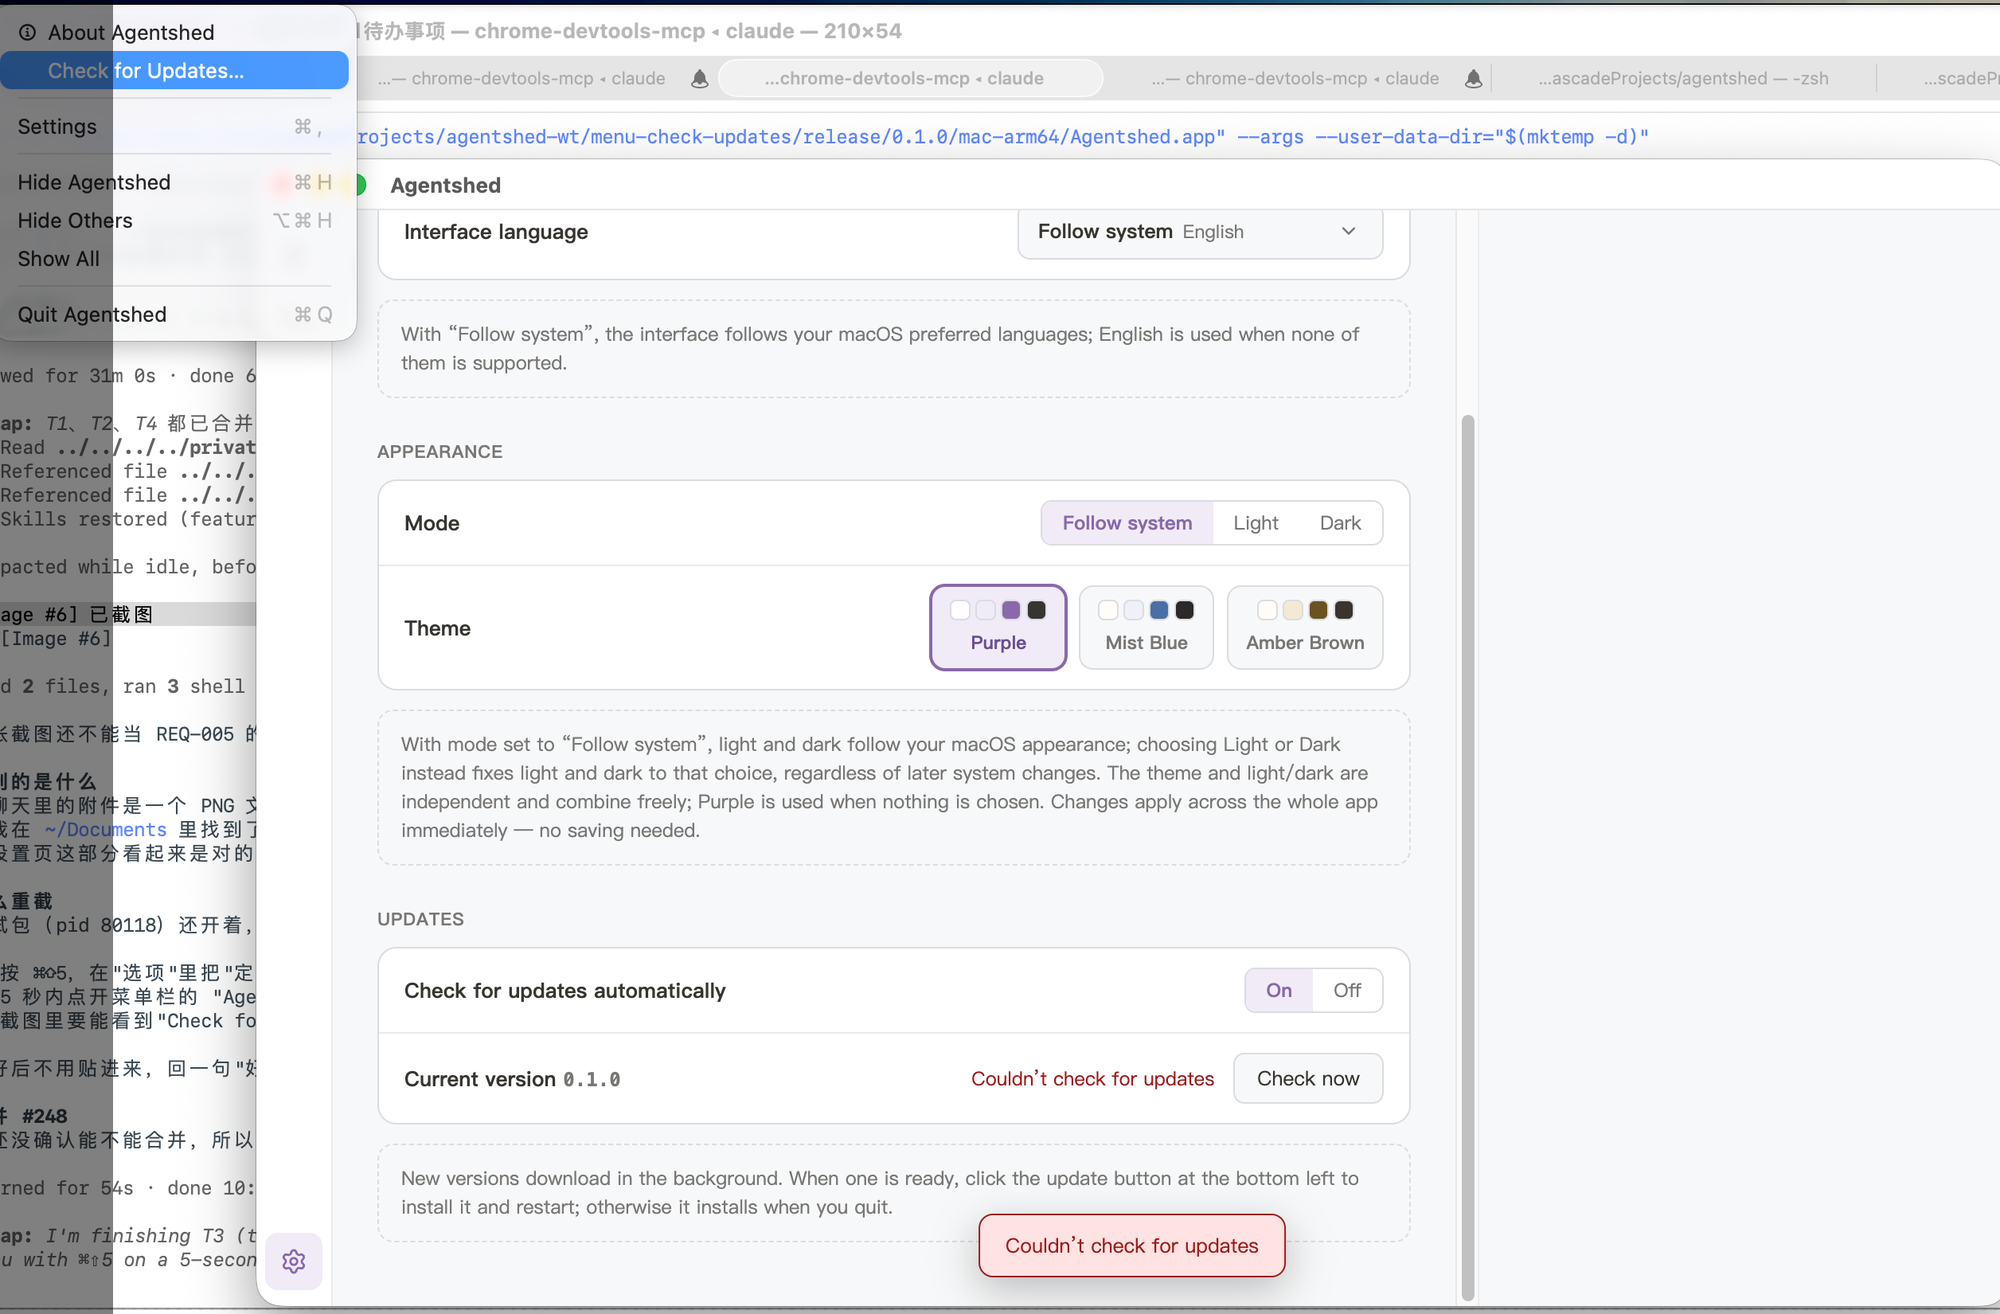
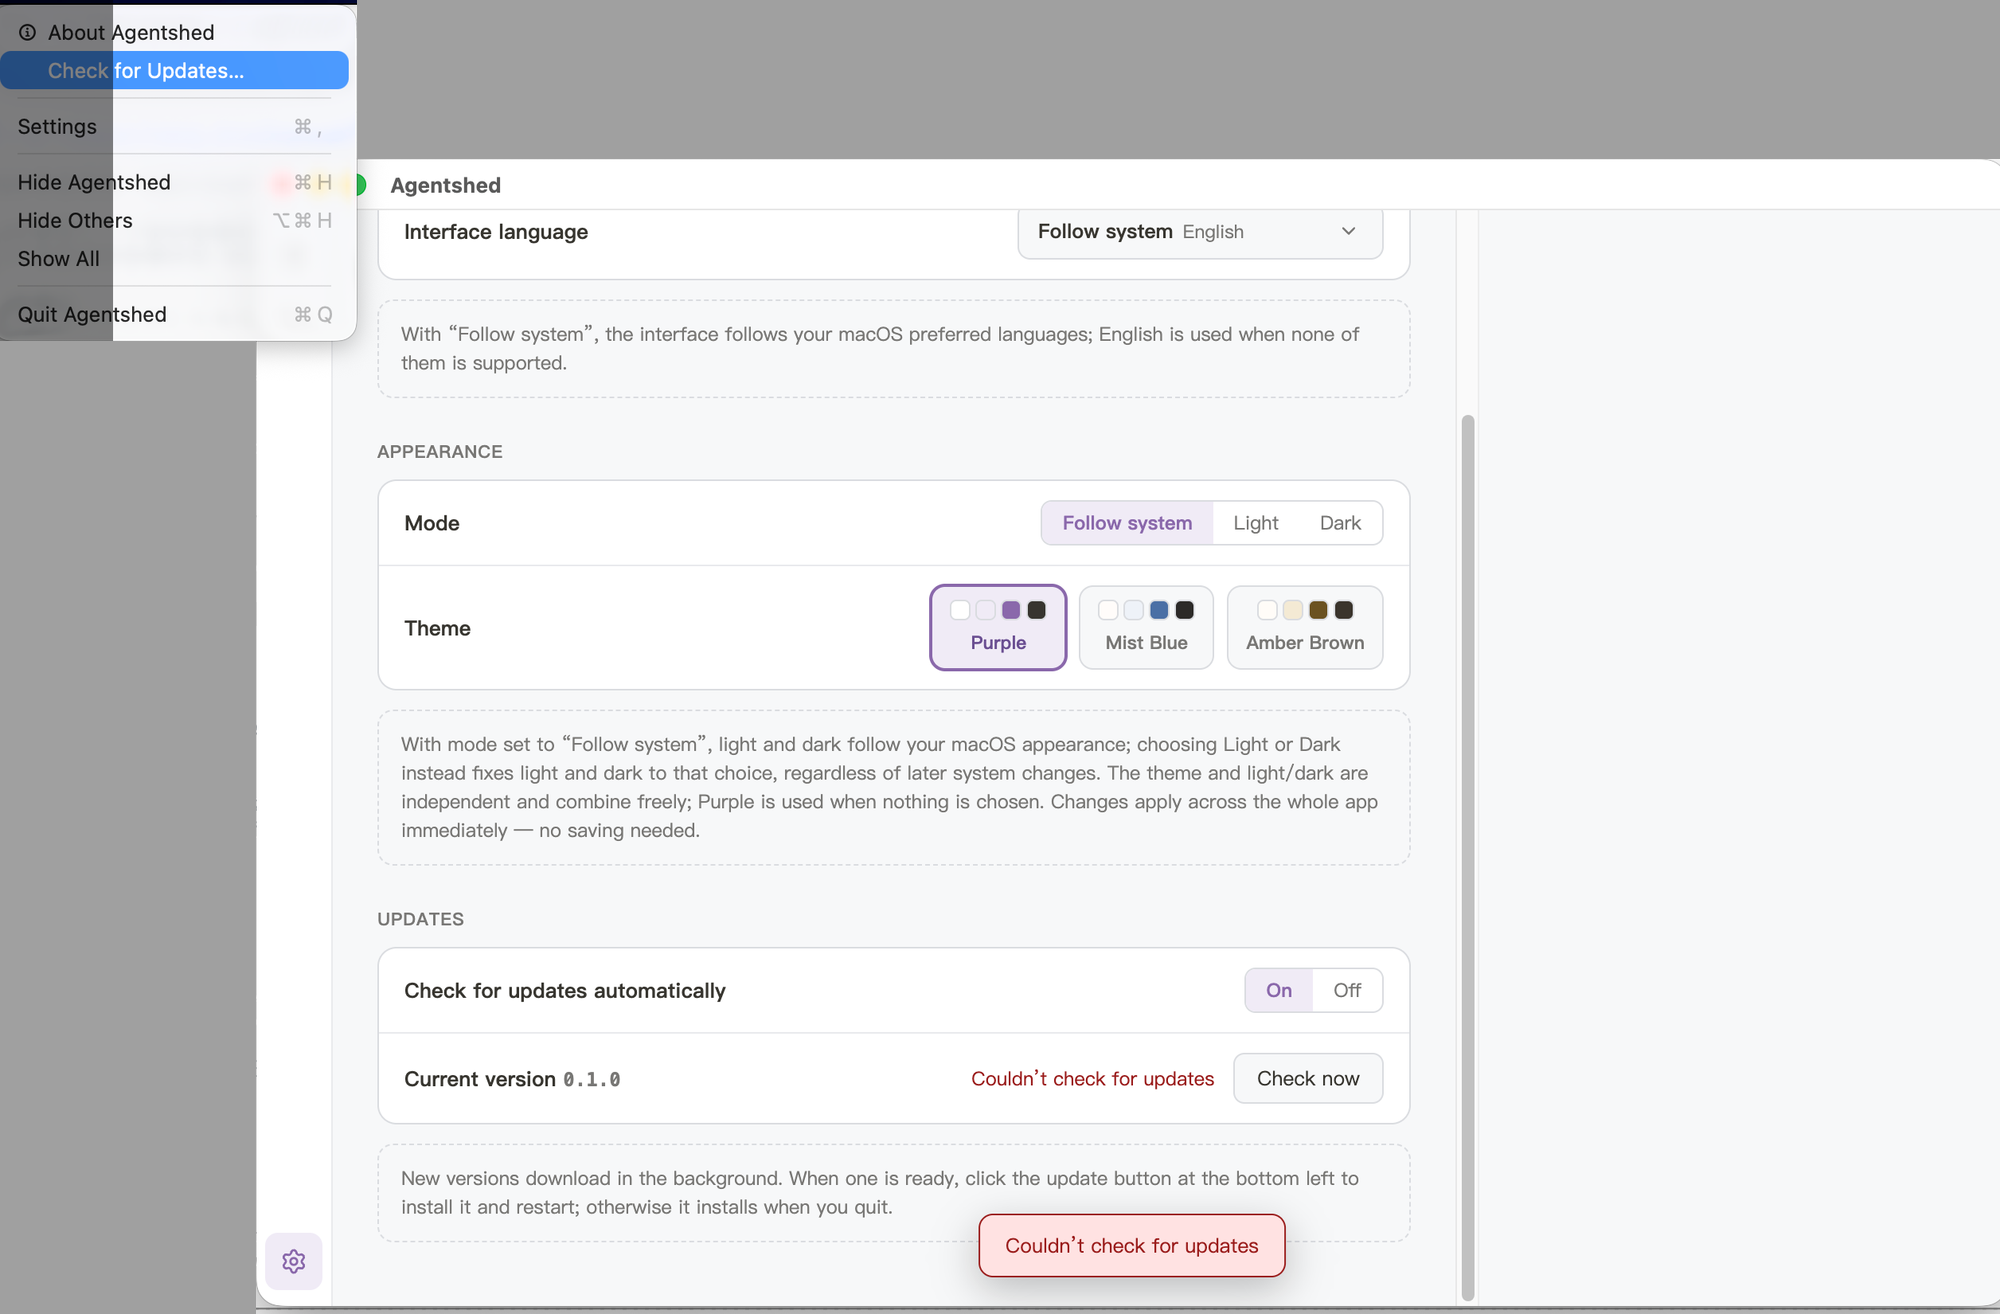
Paint over the terminal in the native menu screenshot
The terminal behind the packaged app (tab titles, the launch command,
fragments of a conversation) is painted over in flat grey at the owner's
request. The menu, the app window and the toast are untouched.

Changed region(s): [[0.0, 0.2496, 0.155, 1.0], [0.155, 0.0, 1.0, 0.1248]]

diff --git a/docs/.workings/macos-release-line/evidence/ticket-232/README.md b/docs/.workings/macos-release-line/evidence/ticket-232/README.md
@@ -16,8 +16,10 @@ What it shows:
   check's failed outcome (settings checks report in their line), so it is a menu check against the real
   feed, made while the repository has no release yet. The settings line shows the same outcome of an earlier
   "Check now".
-- Around the menu: part of the terminal the build was launched from (tab titles, the launch command,
-  fragments of the conversation). Not part of the evidence.
+- Around the menu and the window: the terminal the build was launched from, painted over in flat grey at the
+  owner's request (above the window to the right of the menu, and left of the window's border below the
+  menu). The menu, the window and the toast are untouched. The darker band along the left edge is the
+  screenshot tool's dimming.
 
 Not shown here: the menu after a language switch (read by e2e from the installed menu) and the item greyed in
 a development run (the template unit and e2e).
